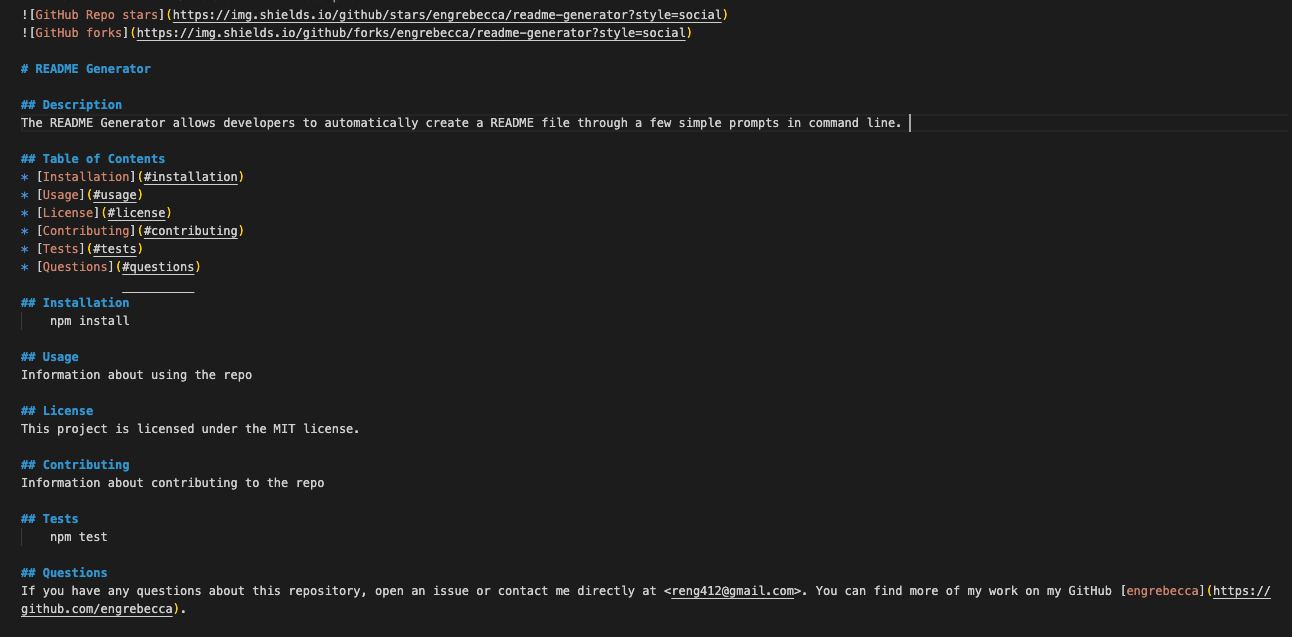
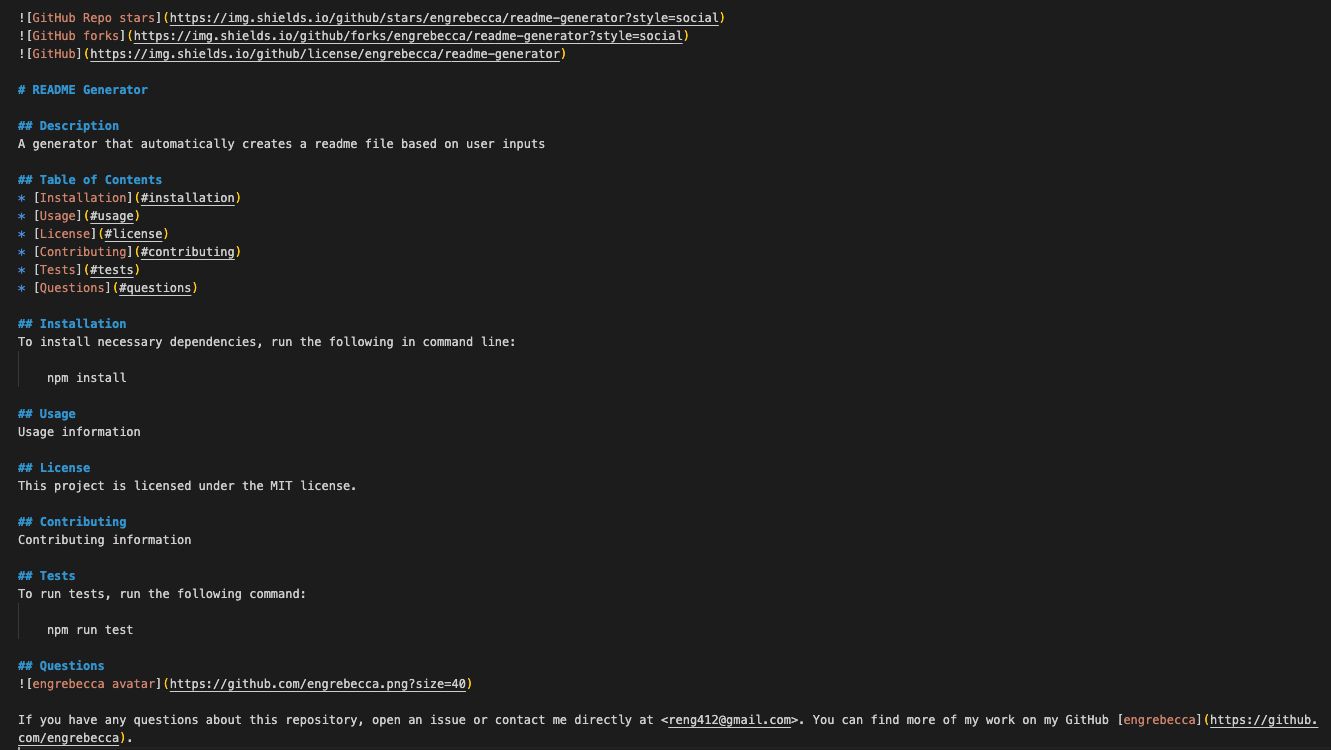
Update README and add sample README file

Changed region(s): [[0.0, 0.5369, 0.9907, 1.0], [0.0, 0.0, 0.7121, 0.2088], [0.0, 0.2386, 0.4025, 0.5071]]

diff --git a/index.js b/index.js
@@ -63,6 +63,7 @@ function generateReadMe(answers){
     return `
 ![GitHub Repo stars](https://img.shields.io/github/stars/${answers.username}/${answers.repo}?style=social)
 ![GitHub forks](https://img.shields.io/github/forks/${answers.username}/${answers.repo}?style=social)
+![GitHub](https://img.shields.io/github/license/${answers.username}/${answers.repo})
 
 # ${answers.title}
 
@@ -78,6 +79,8 @@ ${answers.description}
 * [Questions](#questions)
 
 ## Installation
+To install necessary dependencies, run the following in command line:
+
     ${answers.install}
 
 ## Usage
@@ -90,9 +93,13 @@ This project is licensed under the ${answers.license} license.
 ${answers.contribute}
 
 ## Tests
+To run tests, run the following command:
+
     ${answers.runTest}
 
 ## Questions
+![${answers.username} avatar](https://github.com/${answers.username}.png?size=40)
+
 If you have any questions about this repository, open an issue or contact me directly at <${answers.email}>. You can find more of my work on my GitHub [${answers.username}](https://github.com/${answers.username}).
 `;
 }

diff --git a/README.md b/README.md
@@ -1,5 +1,6 @@
 ![GitHub Repo stars](https://img.shields.io/github/stars/engrebecca/readme-generator?style=social)
 ![GitHub forks](https://img.shields.io/github/forks/engrebecca/readme-generator?style=social)
+![GitHub](https://img.shields.io/github/license/engrebecca/readme-generator)
 
 # README Generator
 
@@ -9,6 +10,8 @@ The README Generator allows developers to automatically create a README file thr
 ## Table of Contents
 * [Installation](#installation)
 * [Usage](#usage)
+* [Built With](#built-with)
+* [Sample Images](#sample-images)
 * [License](#license)
 * [Contributing](#contributing)
 * [Tests](#tests)
@@ -35,7 +38,7 @@ This program utilizes the Inquirer package. To install necessary dependencies, r
 * [Git](https://git-scm.com/) - version control system to track changes in source code
 * [GitHub](https://github.com/) - hosts repository and deploys page on GitHub
 
-## Sample Result Pictures
+## Sample Images
 A sample markdown file that is generated
 ![Sample Image](assets/markdown.png)
 
@@ -51,10 +54,12 @@ If you are interested in contributing to this repository, please contact me at t
 ## Tests
 To run tests, run the following command:
 
-    npm test
+    npm run test
 
 ## Credits
 * Badges from [ShieldsIO](https://shields.io/)
 
 ## Questions
+![engrebecca avatar](https://github.com/engrebecca.png?size=40)
+
 If you have any questions about this repository, please open an issue or contact me directly at <reng412@gmail.com> or on [LinkedIn](https://www.linkedin.com/in/engrebecca/). You can find more of my work on my GitHub [engrebecca](https://github.com/engrebecca).

diff --git a/sampleREADME.md b/sampleREADME.md
@@ -1,0 +1,41 @@
+
+![GitHub Repo stars](https://img.shields.io/github/stars/engrebecca/readme-generator?style=social)
+![GitHub forks](https://img.shields.io/github/forks/engrebecca/readme-generator?style=social)
+![GitHub](https://img.shields.io/github/license/engrebecca/readme-generator)
+
+# README Generator
+
+## Description
+A generator that automatically creates a readme file based on user inputs
+
+## Table of Contents
+* [Installation](#installation)
+* [Usage](#usage)
+* [License](#license)
+* [Contributing](#contributing)
+* [Tests](#tests)
+* [Questions](#questions)
+
+## Installation
+To install necessary dependencies, run the following in command line:
+
+    npm install
+
+## Usage
+Usage information
+
+## License
+This project is licensed under the MIT license.
+
+## Contributing
+Contributing information
+
+## Tests
+To run tests, run the following command:
+
+    npm run test
+
+## Questions
+![engrebecca avatar](https://github.com/engrebecca.png?size=40)
+
+If you have any questions about this repository, open an issue or contact me directly at <reng412@gmail.com>. You can find more of my work on my GitHub [engrebecca](https://github.com/engrebecca).
